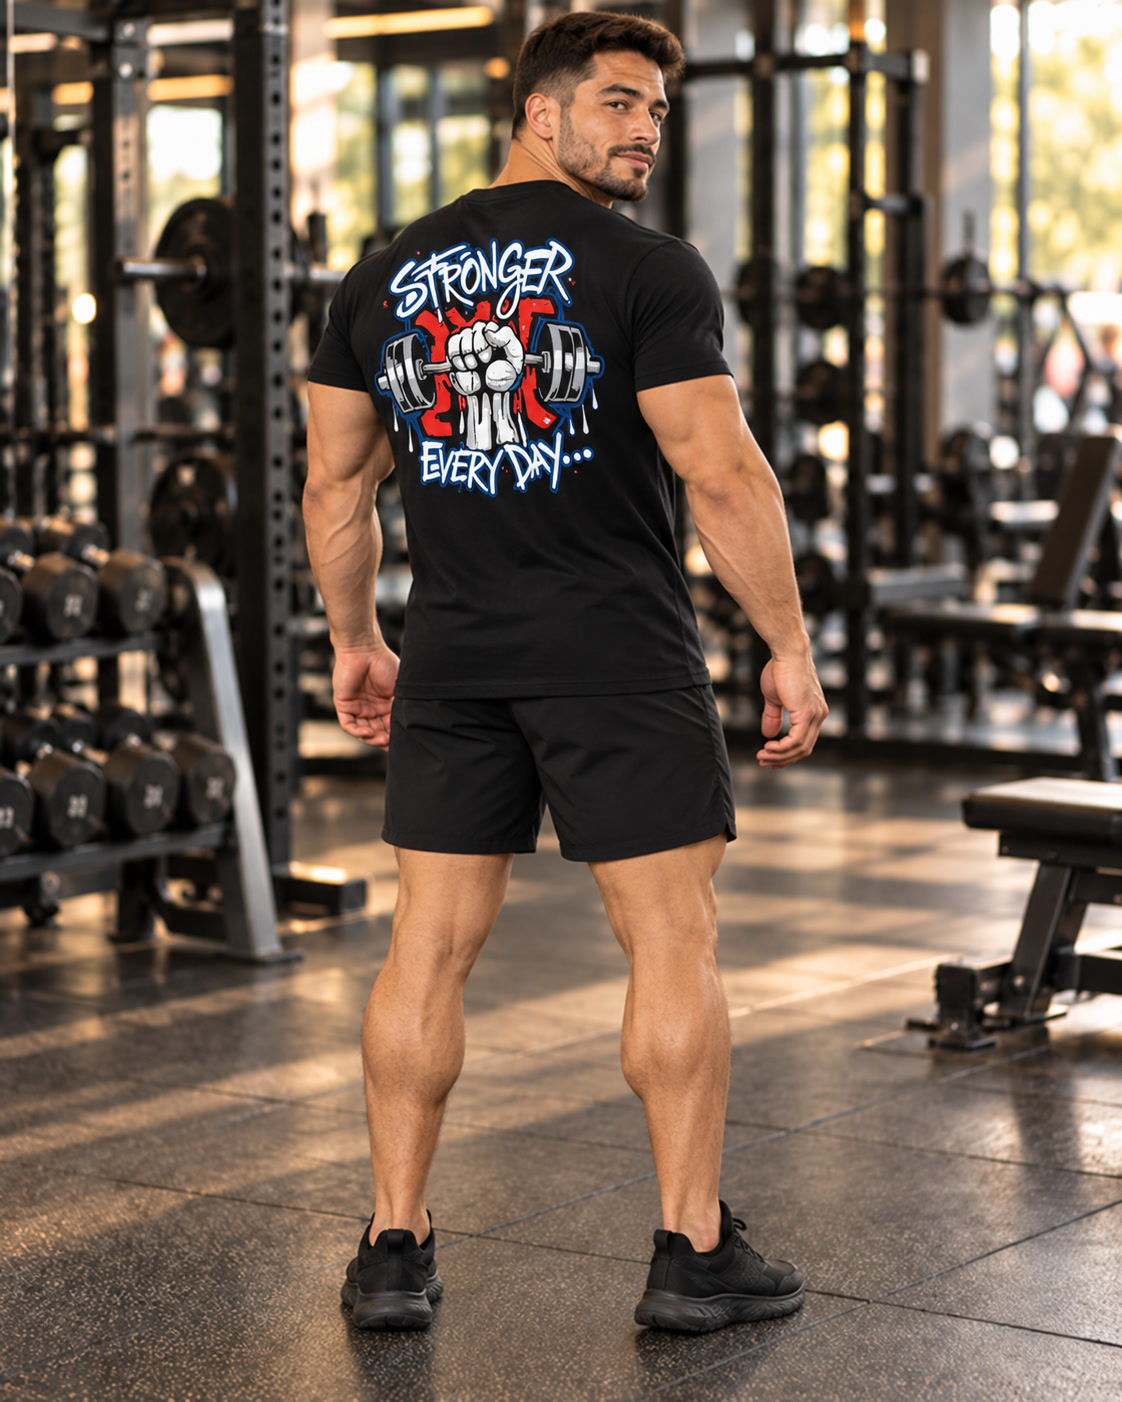
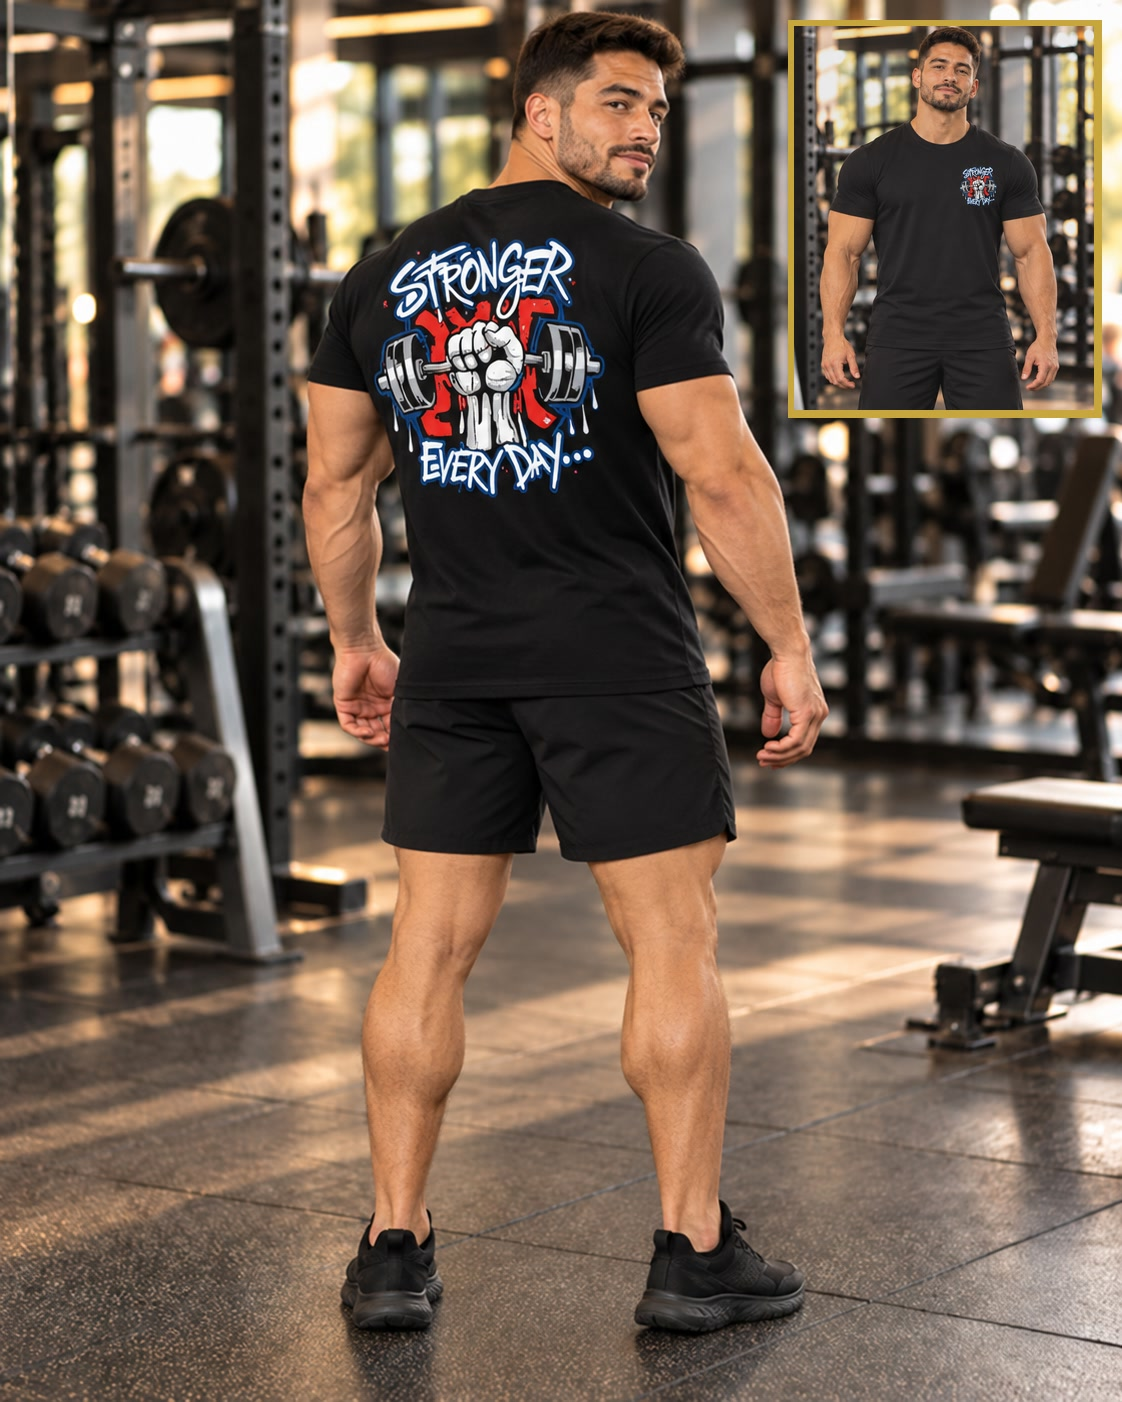
Tienda: polera Stronger con cuadro de frente hecho en ChatGPT
Claude-Session: https://claude.ai/code/session_013ZgZPSRHEDhMsqmx8Km842

Changed region(s): [[0.6863, 0.0, 0.9982, 0.3067]]

diff --git a/tienda.html b/tienda.html
@@ -221,7 +221,7 @@ function hoyISO(){ return new Intl.DateTimeFormat("en-CA", { timeZone:"America/S
 function ahoraTxt(){ var f = new Intl.DateTimeFormat("sv-SE", { timeZone:"America/Santiago", year:"numeric", month:"2-digit", day:"2-digit", hour:"2-digit", minute:"2-digit" }).format(new Date()); return f.replace("T", " ").slice(0, 16); }
 function normTxt(s){ return String(s || "").toUpperCase().normalize("NFD").replace(/[̀-ͯ]/g, ""); }
 /* Al cambiar una foto en img/tienda/ (mismo nombre), subir FOTO_V para que los teléfonos no muestren la antigua. */
-var FOTO_V = "16";
+var FOTO_V = "17";
 function fotoUrl(f){ return f ? f + (f.indexOf("?") < 0 ? "?v=" + FOTO_V : "") : ""; }
 function iconoCat(c){ var x = CATS.filter(function(k){ return k[0] === c; })[0]; return x ? x[1] : "📦"; }
 function toast(t, ms){ var el = $("toast"); el.textContent = t; el.style.display = "block"; clearTimeout(toast.t); toast.t = setTimeout(function(){ el.style.display = "none"; }, ms || 2600); }
@@ -303,7 +303,7 @@ setInterval(function(){ if(pend.length) enviarPendientes(); }, 30000);
    el computador"): los datos se vuelven a pedir a la planilla cada 30 s mientras la página está a la vista (sin una ficha
    abierta), y cada minuto se revisa tienda-version.txt: si hay una versión nueva de la página, se recarga sola.
    Cada vez que se cambie tienda.html, subir TIENDA_VERSION y tienda-version.txt juntos (AAAAMMDDNN). */
-var TIENDA_VERSION = "2026102507";
+var TIENDA_VERSION = "2026102508";
 setInterval(function(){ if(clave && !document.hidden && $("velo").hidden && !$("app").hidden) enviarPendientes().then(function(){ cargar(true); }); }, 30000);
 function revisarVersion(){
  fetch("tienda-version.txt?t=" + Date.now(), { cache:"no-store" }).then(function(r){ return r.ok ? r.text() : ""; }).then(function(v){

diff --git a/CLAUDE.md b/CLAUDE.md
@@ -1543,7 +1543,7 @@ Versión 23). Celular y compu ven el mismo inventario.
   El botón «💾 Guardar» de las fichas queda pegado abajo (sticky), siempre a la vista: la dueña cambió el precio del agua
   y no vio el Guardar, que estaba más abajo, y el cambio no se guardó.
   Foto del agua cambiada el 24-10-2026 por la que mandó la dueña (botella WOL con logo); al reemplazar una foto en
-  `img/tienda/` con el mismo nombre, subir `FOTO_V` en `tienda.html` (las fotos se piden con `?v=`). Al tocar la foto de un producto se abre en pantalla completa con su nombre (`#fotoGrande`; también en la lista de 🏷 Códigos; botón amarillo «← Volver» o tocar fuera de la foto para cerrar; 24-10-2026, pedido de la dueña). **Fotos con cuadro (25-10-2026, la dueña: "se ve borroso el cuadro"):** foto de la modelo a resolución completa (1402 px de alto) y cuadro arriba a la derecha de 300-400 px de ancho, con nitidez (`unsharp`) y borde dorado `#D4AF37`, sin tapar a la modelo; se arman con ffmpeg desde las fotos originales que manda la dueña. La foto del inventario se ve entera
+  `img/tienda/` con el mismo nombre, subir `FOTO_V` en `tienda.html` (las fotos se piden con `?v=`). Al tocar la foto de un producto se abre en pantalla completa con su nombre (`#fotoGrande`; también en la lista de 🏷 Códigos; botón amarillo «← Volver» o tocar fuera de la foto para cerrar; 24-10-2026, pedido de la dueña). **Fotos con cuadro (25-10-2026, la dueña: "se ve borroso el cuadro"):** foto de la modelo a resolución completa (1402 px de alto) y cuadro arriba a la derecha de 300-400 px de ancho, con nitidez (`unsharp`) y borde dorado `#D4AF37`, sin tapar a la modelo; se arman con ffmpeg desde las fotos originales que manda la dueña. Las capturas de la tienda donde compra se ven mal en el cuadro (la dueña: "se ve la calidad horrible"): lo mejor es que el cuadro sea otra vista del mismo modelo hecha en ChatGPT (así quedó la Stronger: de espaldas + cuadro de frente). La foto del inventario se ve entera
   (`object-fit:contain`, cuadro de 78 × 104 px con fondo blanco), pedido de la dueña. Tarjeta del inventario: foto, nombre, detalle y
   precio arriba; debajo, fila `.pills` con Quedan / Costo / Ganas en letra de 20 px (la dueña: "un poco más grande").
   Si el enlace `?nuevo=1…` trae un producto que ya existe, abre su ficha con los datos nuevos del enlace (ej. otro
